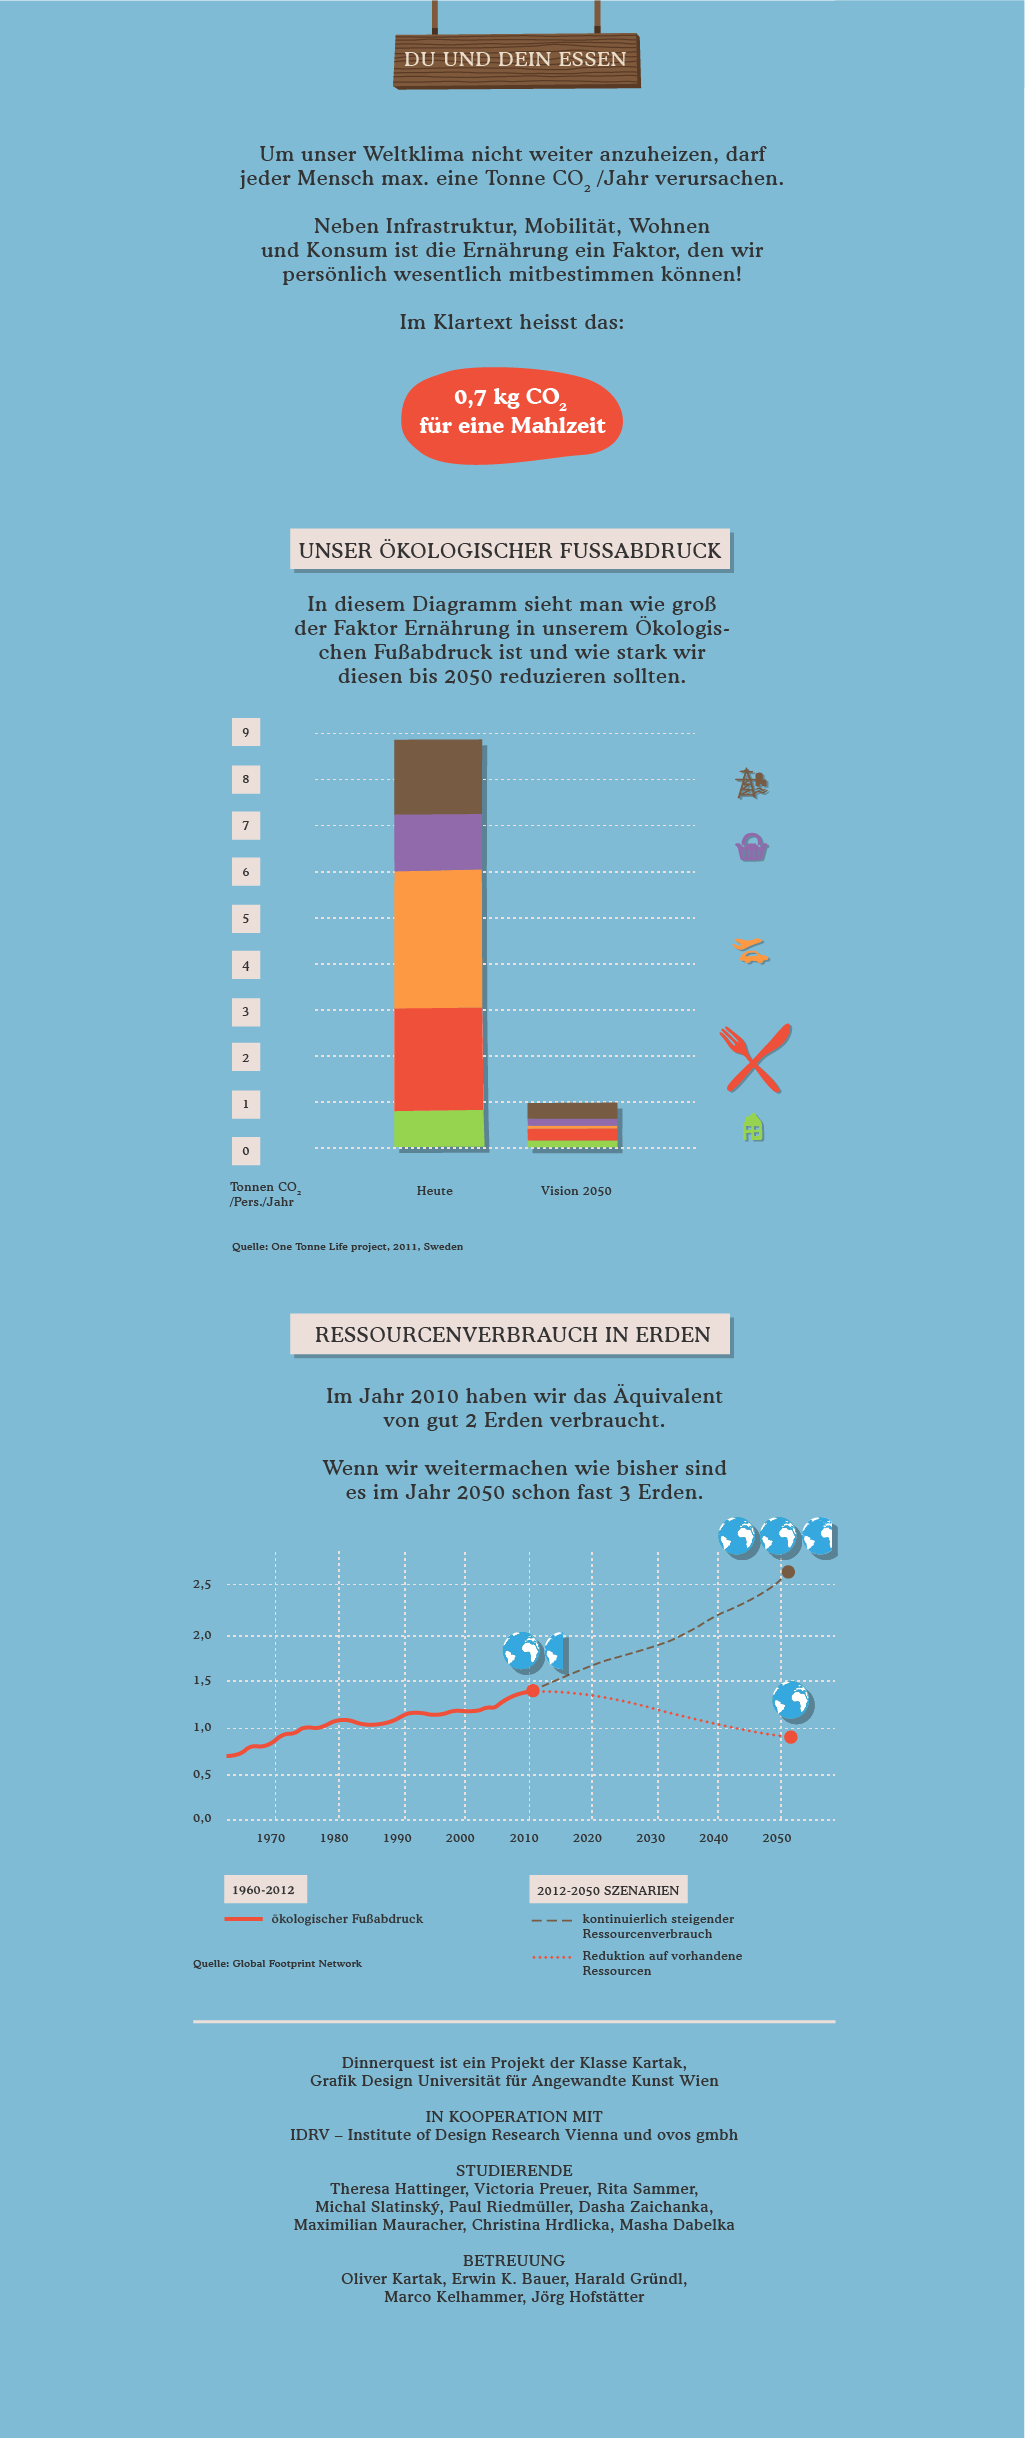
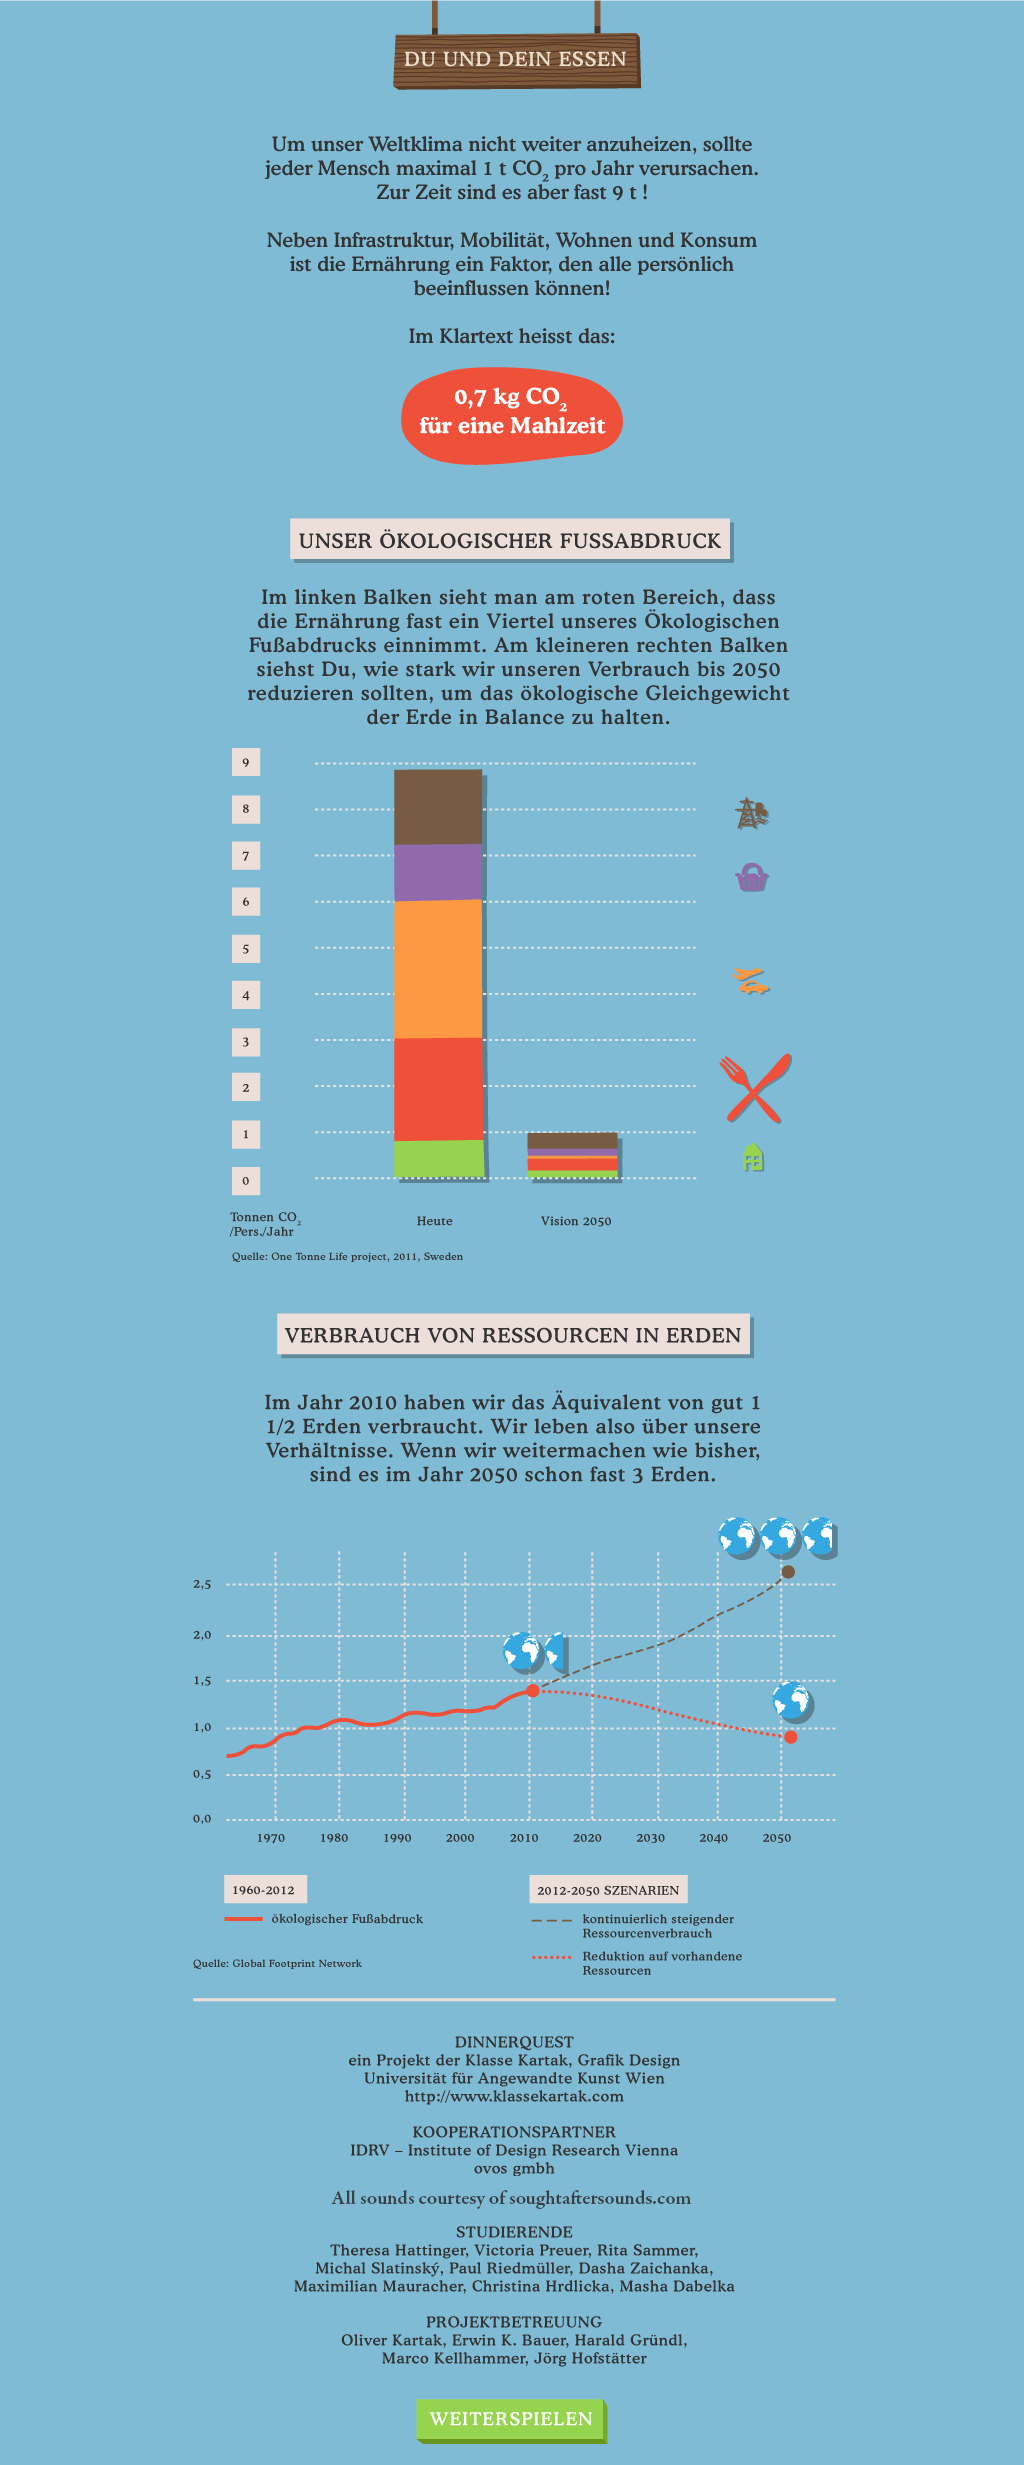
misc

Changed region(s): [[0.1875, 0.0, 0.8125, 0.9975], [0.375, 0.4053, 0.625, 0.4988], [0.6875, 0.3117, 0.7812, 0.4988]]

diff --git a/css/main.css b/css/main.css
@@ -146,7 +146,8 @@ html {
 }
 
 html.overflow {
-    overflow: visible;
+    /*overflow: visible;*/
+    overflow-y: auto;
 }
 
 html, body, #overlays {
@@ -755,13 +756,14 @@ video {
 
 #infopage {
     width: 1024px;
-    height: 2420px;
+    height: 2479px;
     position: absolute;
     top: 0;
     left: 50%;
     margin-left: -512px;
     display: none;
     background-image: url(./../img/DinnerQuest_infoseite.png);
+    background-repeat: no-repeat;
 }
 
 #infopage.visible {
@@ -770,7 +772,7 @@ video {
 
 #continueButton {
     position: absolute;
-    left: calc(48% - 190px / 2);
+    left: calc(48% - 196px / 2);
     bottom: 30px;
     width: 238px;
     height: 50px;

diff --git a/js/main.js b/js/main.js
@@ -172,7 +172,7 @@ var dq = (function($, window, undefined) {
         START_GAME: 750
     },
     templates = ['INTRO', 'TRIAL','VIDEO','GAME','SCENARIO'],
-    defaultTemplate = templates[0], 
+    defaultTemplate = templates[3], 
     sounds = {
         DROPPED_FOOD: 'dropped-food',
         RESTOCK_FOOD: 'restock-food',
